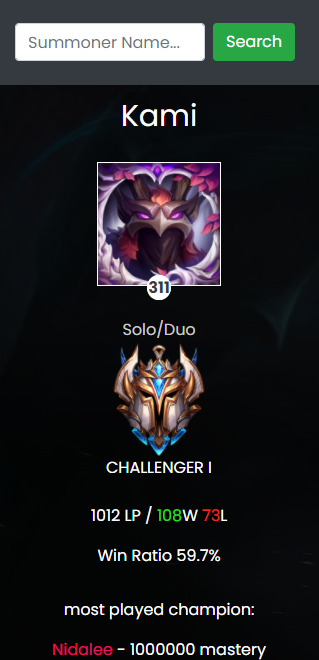
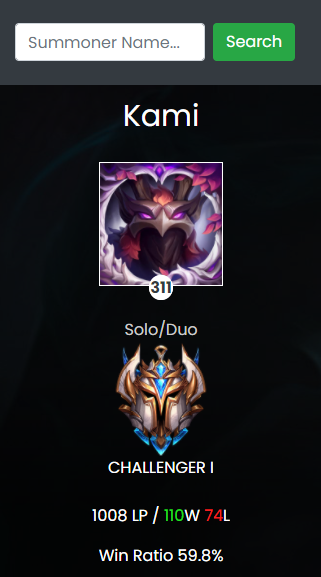
updated images and css

Changed region(s): [[0.0, 0.0312, 1.0, 1.0]]

diff --git a/assets/css/style.css b/assets/css/style.css
@@ -62,7 +62,9 @@
 .nickname .summonerName {
     font-size: 30px;
 }
-
+div .most {
+    margin-top: 13px;
+}
 @media (max-width: 767px){
     header nav a {
         display: none!important;
